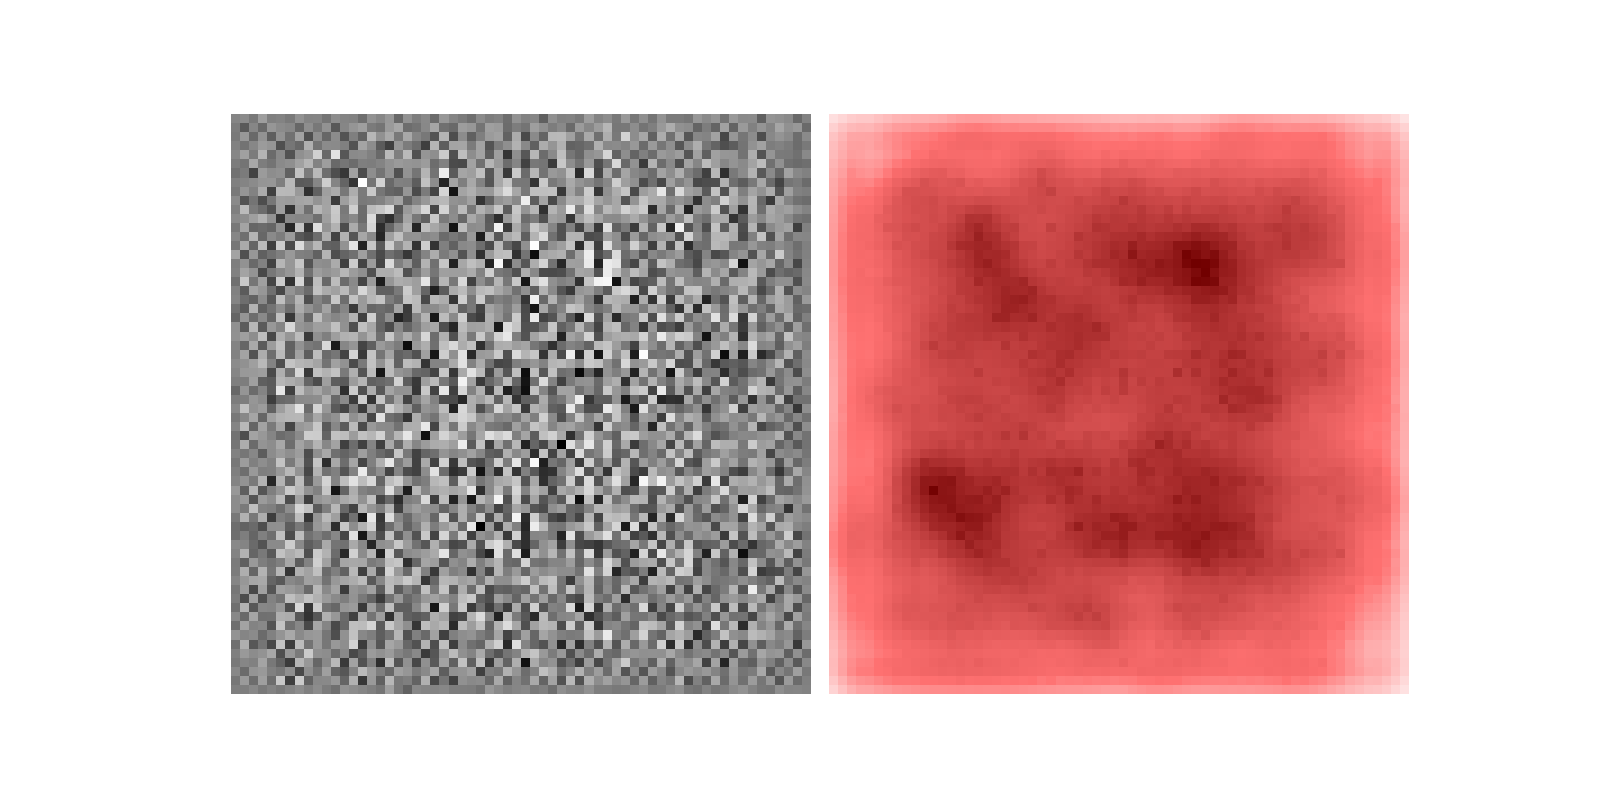
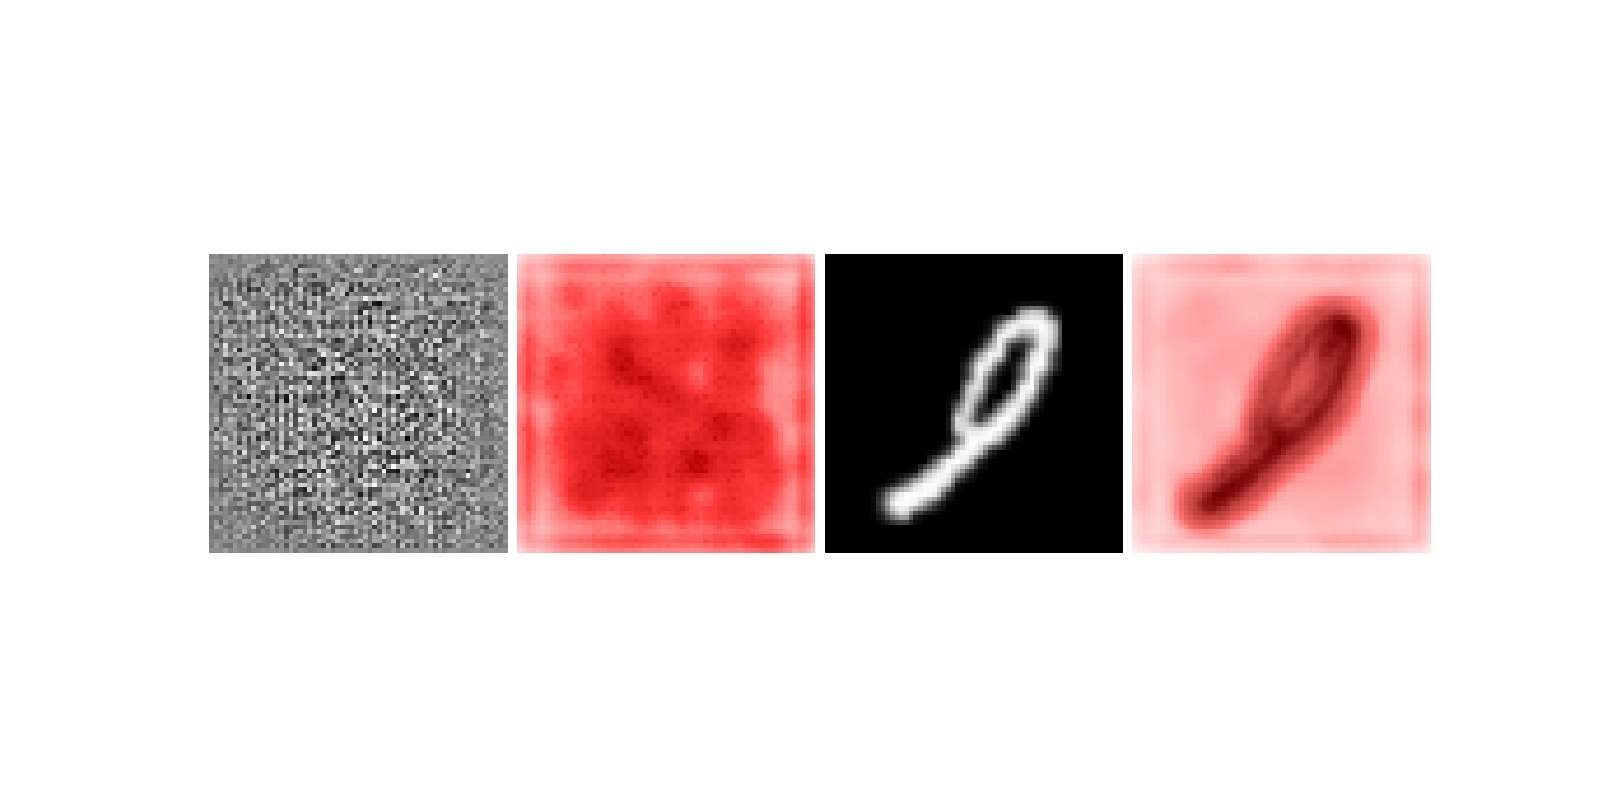
Included nolabel option to print with or without probabilities

diff --git a/utils/utils.py b/utils/utils.py
@@ -6,6 +6,8 @@ from tensorboardX import SummaryWriter
 from IPython import display
 import torch
 from matplotlib import pyplot as plt
+from matplotlib import gridspec
+
 
 if torch.cuda.is_available():
     plt.switch_backend('agg')
@@ -26,7 +28,6 @@ class Logger:
         self.data_name = data_name
 
         self.comment = '{}_{}'.format(model_name, data_name)
-        # self.data_subdir = '{}/{}'.format(model_name, data_name)
         self.data_subdir = '{}/{}'.format(dir_name, data_name)
         self.log_subdir = '{}/{}'.format(dir_name, 'runs/')
 
@@ -47,10 +48,12 @@ class Logger:
         self.writer.add_scalar(
             '{}/G_error'.format(self.comment), g_error, step)
 
-    def log_images(self, images, relevance, num_images, epoch, n_batch, num_batches, format='NCHW', normalize=True):
+    def log_images(self, images, relevance, num_images, epoch, n_batch, num_batches,
+                   fake_prop=None, real_prop=None, format='NCHW', normalize=True, noLabel=False):
         """
         input images are expected in format (NCHW)
         """
+
         relevance = visualize(relevance.cpu().numpy() if torch.cuda.is_available()
                               else relevance.numpy(), heatmap)
 
@@ -70,7 +73,13 @@ class Logger:
         if torch.cuda.is_available():
             images = images.cuda()
             relevance = relevance.cuda()
-        images = torch.cat((images, relevance))
+
+        # concat images and relevance in comb pattern
+        images_comb = torch.Tensor()
+        for pair in zip(images, relevance):
+            comb = torch.cat((pair[0].unsqueeze(0), pair[1].unsqueeze(0)))
+            images_comb = torch.cat((images_comb, comb))
+        images = images_comb
 
         # Make horizontal grid from image tensor
         horizontal_grid = vutils.make_grid(
@@ -78,41 +87,78 @@ class Logger:
         # Make vertical grid from image tensor
         nrows = int(np.sqrt(num_images))
         grid = vutils.make_grid(
-            images, nrow=nrows, normalize=True, scale_each=True, pad_value=1)
+            images, nrow=2, normalize=True, scale_each=True, pad_value=1)
 
         # Add horizontal images to tensorboard
         self.writer.add_image(img_name, horizontal_grid, step)
 
         # Save plots
-        self.save_torch_images(horizontal_grid, grid, epoch, n_batch)
+        self.save_torch_images(horizontal_grid, grid, epoch, n_batch, images_comb, fake_prop, real_prop, noLabel)
 
-
-    def save_torch_images(self, horizontal_grid, grid, epoch, n_batch, plot_horizontal=True):
+    def save_torch_images(self, horizontal_grid, grid, epoch, n_batch, images, fake_prop, real_prop, noLabel,
+                          plot_horizontal=False):
         out_dir = '{}'.format(self.data_subdir)
         Logger._make_dir(out_dir)
 
-        # Plot and save horizontal
-        fig = plt.figure(figsize=(32, 16), facecolor='white')
-        if torch.cuda.is_available():
-            horizontal_grid = horizontal_grid.cpu()
-        plt.imshow(np.moveaxis(horizontal_grid.numpy(), 0, -1))
-        plt.axis('off')
-        if plot_horizontal:
-            display.display(plt.gcf())
-        self._save_images(fig, epoch, n_batch, 'hori')
-        plt.close()
+        if noLabel:
+            # Plot and save horizontal
+            if plot_horizontal:
+                fig = plt.figure(figsize=(32, 16), facecolor='white')
+                if torch.cuda.is_available():
+                    horizontal_grid = horizontal_grid.cpu()
+                plt.imshow(np.moveaxis(horizontal_grid.numpy(), 0, -1))
+                plt.axis('off')
+                display.display(plt.gcf())
+                self._save_images(fig, epoch, n_batch, 'hori_')
+                plt.close()
 
-        # Save squared
-        # fig = plt.figure()
-        # plt.imshow(np.moveaxis(grid.numpy(), 0, -1))
-        # plt.axis('off')
-        # self._save_images(fig, epoch, n_batch)
-        # plt.close()
+            # Save squared
+
+            fig = plt.figure(figsize=(32, 32), facecolor='white')
+            if torch.cuda.is_available():
+                grid = grid.cpu()
+            plt.imshow(np.moveaxis(grid.numpy(), 0, -1))
+            plt.axis('off')
+            self._save_images(fig, epoch, n_batch)
+            plt.close()
+
+        else:
+            self._save_subplots(images, fake_prop, real_prop, epoch, n_batch)
+
+    def _save_subplots(self, images, fake_prop, real_prop, epoch, n_batch, comment=''):
+        out_dir = '{}'.format(self.data_subdir)
+        Logger._make_dir(out_dir)
+
+        num_plots = images.size(0) // 2
+        cols = 2
+        fig, axarr = plt.subplots(num_plots, cols)
+        fig = plt.gcf()
+        fig.set_size_inches(64, 64)
+        index = 0
+        for n in range(0, num_plots):
+            image = vutils.make_grid(images[index], normalize=True, scale_each=True, pad_value=1)
+            axarr[n, 0].imshow(np.moveaxis(image.numpy(), 0, -1))
+            axarr[n, 0].axis('off')
+            if n % 2 == 0:
+                axarr[n, 0].set_title(fake_prop.item(), fontsize=50)
+            else:
+                axarr[n, 0].set_title(real_prop.item(), fontsize=50)
+            ttl = axarr[n, 0].title
+            ttl.set_position([.5, 1.05])
+
+            image = vutils.make_grid(images[index + 1], normalize=True, scale_each=True, pad_value=1)
+            axarr[n, 1].imshow(np.moveaxis(image.numpy(), 0, -1))
+            axarr[n, 1].axis('off')
+
+            index += 2
+
+        fig.savefig('{}/{}epoch_{}_batch_{}.pdf'.format(out_dir, comment, epoch, n_batch), dpi=100)
+        plt.close()
 
     def _save_images(self, fig, epoch, n_batch, comment=''):
         out_dir = '{}'.format(self.data_subdir)
         Logger._make_dir(out_dir)
-        fig.savefig('{}/{}_epoch_{}_batch_{}.png'.format(out_dir, comment, epoch, n_batch), dpi=50)
+        fig.savefig('{}/{}epoch_{}_batch_{}.png'.format(out_dir, comment, epoch, n_batch), dpi=50)
 
     @staticmethod
     def display_status(epoch, num_epochs, n_batch, num_batches, d_error, g_error, d_pred_real, d_pred_fake):
@@ -203,7 +249,6 @@ def visualize(x, colormap):
     else:
         x = x.reshape([N, x.shape[2], x.shape[3], 3])
     return x
-
 
     # x = np.pad(x, ((0, 0), (0, 0), (2, 2), (2, 2), (0, 0)), 'constant', constant_values=1)
     # x = x.transpose([0, 2, 1, 3, 4]).reshape([1 * 32, N * 32, 3])

diff --git a/DCGAN.py b/DCGAN.py
@@ -33,6 +33,8 @@ parser.add_argument('--loadG', default='', help='path to generator (to continue 
 parser.add_argument('--loadD', default='', help='path to discriminator (to continue training')
 parser.add_argument('--alpha', default=1, type=int)
 parser.add_argument('--beta', default=None, type=float)
+parser.add_argument('--lflip', help='Flip the labels during training', action='store_true')
+parser.add_argument('--nolabel', help='Print the images without labeling of probabilities', action='store_true')
 
 opt = parser.parse_args()
 outf = '{}/{}'.format(opt.outf, os.path.splitext(os.path.basename(sys.argv[0]))[0])
@@ -105,7 +107,9 @@ def discriminator_target(size):
     Tensor containing soft labels, with shape = size
     """
     # noinspection PyUnresolvedReferences
-    return torch.Tensor(size).uniform_(0.7, 1.0)
+    if not opt.lflip:
+        return torch.Tensor(size).uniform_(0.7, 1.0)
+    return torch.Tensor(size).zero_()
 
 
 def generator_target(size):
@@ -115,8 +119,9 @@ def generator_target(size):
     :return: zeros tensor
     """
     # noinspection PyUnresolvedReferences
-    # return torch.Tensor(size).uniform_(0.0, 0.3)
-    return torch.Tensor(size).zero_()
+    if not opt.lflip:
+        return torch.Tensor(size).zero_()
+    return torch.Tensor(size).uniform_(0.7, 1.0)
 
 
 # init networks
@@ -176,6 +181,8 @@ for epoch in range(opt.epochs):
         real_data = batch_data.to(gpu)
         label_real = discriminator_target(batch_size).to(gpu)
 
+        # save input without noise for relevance comparison
+        real_test = real_data[0].clone().unsqueeze(0)
         # Add noise to input
         real_data = added_gaussian(real_data, add_noise_var)
         prediction_real = discriminator(real_data)
@@ -230,21 +237,31 @@ for epoch in range(opt.epochs):
             test_result = discriminator(test_fake)
             test_relevance = discriminator.relprop()
 
+            # Relevance propagation on real image
+            real_test.requires_grad = True
+            real_test_result = discriminator(real_test)
+            real_test_relevance = discriminator.relprop()
+
+
             # set ngpu back to opt.ngpu
             if (opt.ngpu > 1):
                 discriminator.setngpu(opt.ngpu)
 
             # Add up relevance of all color channels
             test_relevance = torch.sum(test_relevance, 1, keepdim=True)
+            real_test_relevance = torch.sum(real_test_relevance, 1, keepdim=True)
+
+            test_fake = torch.cat((test_fake, real_test))
+            test_relevance = torch.cat((test_relevance, real_test_relevance))
 
             img_name = logger.log_images(
-                test_fake.detach(), test_relevance.detach(), 1,
-                epoch, n_batch, len(dataloader)
+                test_fake.detach(), test_relevance.detach(), test_fake.size(0),
+                epoch, n_batch, len(dataloader), test_result, real_test_result, noLabel=opt.nolabel
             )
 
             # show images inline
             subprocess.call([os.path.expanduser('~/.iterm2/imgcat'),
-                             outf + '/mnist/hori_epoch_' + str(epoch) + '_batch_' + str(n_batch) + '.png'])
+                             outf + '/mnist/epoch_' + str(epoch) + '_batch_' + str(n_batch) + '.png'])
 
             status = logger.display_status(epoch, opt.epochs, n_batch, len(dataloader), d_error_total, g_err,
                                            prediction_real, prediction_fake)

diff --git a/models/_DCGAN.py b/models/_DCGAN.py
@@ -347,6 +347,7 @@ class GeneratorNetLessCheckerboard(nn.Module):
             nn.ConvTranspose2d(ngf * 4, ngf * 2, 4, 2, 1),
             nn.BatchNorm2d(ngf * 2),
             nn.LeakyReLU(0.2, inplace=True),
+
             # state size. (ngf*2) x 16 x 16
             nn.ConvTranspose2d(ngf * 2, ngf, 4, 2, 1),
             nn.BatchNorm2d(ngf),
